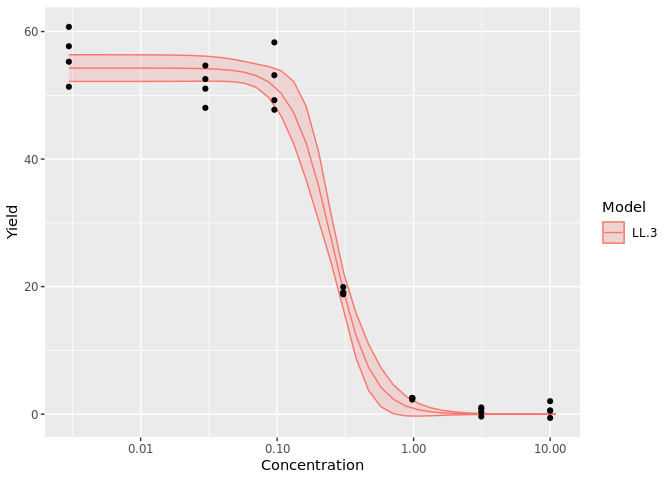
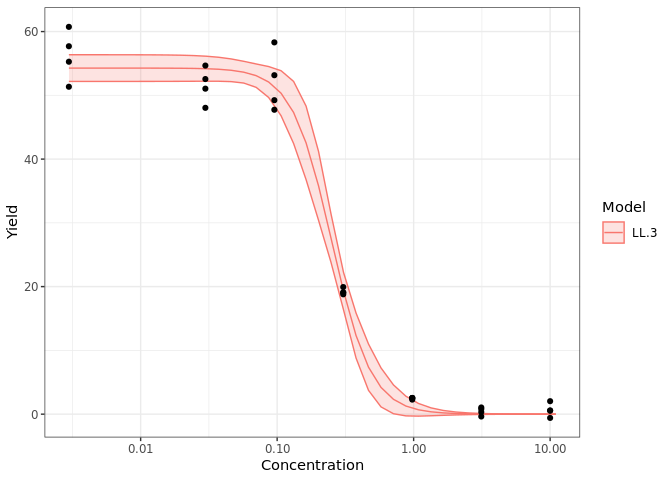
opensource prep: reknit readme

Changed region(s): [[0.0625, 0.9062, 0.8438, 0.9375], [0.0625, 0.0, 0.0938, 0.0312]]

diff --git a/README.md b/README.md
@@ -6,9 +6,26 @@
 <!-- badges: start -->
 <!-- badges: end -->
 
-The goal of drcHelper is to assit the routine dose-response analysis
-with a collection of helper functions or standalong functions that are
-generic and might be useful outside our own organization.
+The goal of drcHelper is to assist with routine dose-response analysis
+by providing a collection of helper functions and standalone functions
+that are generic and may be useful beyond our organization.
+
+As part of the GLP stat pilot project, this package serves as a
+cornerstone for the second use case, EFX Statistics. It will streamline
+GLP statistical analyses for various dose-response studies and test
+assays within our registration data package. This ensures that the
+analyses remain current, state-of-the-art, and flexible enough to adapt
+to new regulatory requirements while complying with GLP standards.
+
+The package also includes test cases and examples to help the regulatory
+statistical community understand the reasons behind different outcomes.
+For instance, point estimations and p-values may vary depending on the
+parties involved, the functions used, or the packages selected. It aims
+to promote a harmonized understanding of methodologies and provide a
+foundation for standardized practices in the regulatory statistics field
+for plant protection product registration. Additionally, it is hoped
+that this project will contribute to the ongoing OECD 54 revision
+process.
 
 ## Installation
 
@@ -30,6 +47,7 @@ library(drc)
 library(dplyr)
 library(purrr)
 library(ggplot2)
+theme_set(theme_bw())
 sum1 <- oecd201 %>% group_by(Time,Treatment) %>% summarise(Yield_mean=mean(Yield),Yield_sd=sd(Yield),GrowthRate_mean=mean(GrowthRate),GrowthRate_sd=sd(GrowthRate))
 sum0 <- sum1%>%filter(Treatment=="Control")%>%rename(Yield0=Yield_mean,GrowthRate0=GrowthRate_mean)%>%dplyr::select(c(Time,Yield0,GrowthRate0))
 # sum0
@@ -117,33 +135,33 @@ knitr::kable(edResTab,caption = "14 day TSL Yield",digits = 3)
 | LL.3  |    0.120 |      0.020 | 0.078 | 0.162 | 0.700 | Fair        | EC 10 |
 | LL.3  |    0.158 |      0.019 | 0.118 | 0.197 | 0.504 | Fair        | EC 20 |
 | LL.3  |    0.251 |      0.013 | 0.225 | 0.277 | 0.206 | Good        | EC 50 |
-| LL2.3 |       NA |         NA |    NA |    NA |    NA | not defined | EC 10 |
-| LL2.3 |       NA |         NA |    NA |    NA |    NA | not defined | EC 20 |
-| LL2.3 |       NA |         NA |    NA |    NA |    NA | not defined | EC 50 |
-| W2.3  |       NA |         NA |    NA |    NA |    NA | not defined | EC 10 |
-| W2.3  |       NA |         NA |    NA |    NA |    NA | not defined | EC 20 |
-| W2.3  |       NA |         NA |    NA |    NA |    NA | not defined | EC 50 |
-| W1.3  |       NA |         NA |    NA |    NA |    NA | not defined | EC 10 |
-| W1.3  |       NA |         NA |    NA |    NA |    NA | not defined | EC 20 |
-| W1.3  |       NA |         NA |    NA |    NA |    NA | not defined | EC 50 |
-| EXD.3 |       NA |         NA |    NA |    NA |    NA | not defined | EC 10 |
-| EXD.3 |       NA |         NA |    NA |    NA |    NA | not defined | EC 20 |
-| EXD.3 |       NA |         NA |    NA |    NA |    NA | not defined | EC 50 |
-| EXD.2 |       NA |         NA |    NA |    NA |    NA | not defined | EC 10 |
-| EXD.2 |       NA |         NA |    NA |    NA |    NA | not defined | EC 20 |
-| EXD.2 |       NA |         NA |    NA |    NA |    NA | not defined | EC 50 |
-| LN.3  |       NA |         NA |    NA |    NA |    NA | not defined | EC 10 |
-| LN.3  |       NA |         NA |    NA |    NA |    NA | not defined | EC 20 |
-| LN.3  |       NA |         NA |    NA |    NA |    NA | not defined | EC 50 |
-| W2.4  |       NA |         NA |    NA |    NA |    NA | not defined | EC 10 |
-| W2.4  |       NA |         NA |    NA |    NA |    NA | not defined | EC 20 |
-| W2.4  |       NA |         NA |    NA |    NA |    NA | not defined | EC 50 |
-| LL.4  |       NA |         NA |    NA |    NA |    NA | not defined | EC 10 |
-| LL.4  |       NA |         NA |    NA |    NA |    NA | not defined | EC 20 |
-| LL.4  |       NA |         NA |    NA |    NA |    NA | not defined | EC 50 |
-| LL2.4 |       NA |         NA |    NA |    NA |    NA | not defined | EC 10 |
-| LL2.4 |       NA |         NA |    NA |    NA |    NA | not defined | EC 20 |
-| LL2.4 |       NA |         NA |    NA |    NA |    NA | not defined | EC 50 |
+| LL2.3 |       NA |         NA |    NA |    NA |    NA | Not defined | EC 10 |
+| LL2.3 |       NA |         NA |    NA |    NA |    NA | Not defined | EC 20 |
+| LL2.3 |       NA |         NA |    NA |    NA |    NA | Not defined | EC 50 |
+| W2.3  |       NA |         NA |    NA |    NA |    NA | Not defined | EC 10 |
+| W2.3  |       NA |         NA |    NA |    NA |    NA | Not defined | EC 20 |
+| W2.3  |       NA |         NA |    NA |    NA |    NA | Not defined | EC 50 |
+| W1.3  |       NA |         NA |    NA |    NA |    NA | Not defined | EC 10 |
+| W1.3  |       NA |         NA |    NA |    NA |    NA | Not defined | EC 20 |
+| W1.3  |       NA |         NA |    NA |    NA |    NA | Not defined | EC 50 |
+| EXD.3 |       NA |         NA |    NA |    NA |    NA | Not defined | EC 10 |
+| EXD.3 |       NA |         NA |    NA |    NA |    NA | Not defined | EC 20 |
+| EXD.3 |       NA |         NA |    NA |    NA |    NA | Not defined | EC 50 |
+| EXD.2 |       NA |         NA |    NA |    NA |    NA | Not defined | EC 10 |
+| EXD.2 |       NA |         NA |    NA |    NA |    NA | Not defined | EC 20 |
+| EXD.2 |       NA |         NA |    NA |    NA |    NA | Not defined | EC 50 |
+| LN.3  |       NA |         NA |    NA |    NA |    NA | Not defined | EC 10 |
+| LN.3  |       NA |         NA |    NA |    NA |    NA | Not defined | EC 20 |
+| LN.3  |       NA |         NA |    NA |    NA |    NA | Not defined | EC 50 |
+| W2.4  |       NA |         NA |    NA |    NA |    NA | Not defined | EC 10 |
+| W2.4  |       NA |         NA |    NA |    NA |    NA | Not defined | EC 20 |
+| W2.4  |       NA |         NA |    NA |    NA |    NA | Not defined | EC 50 |
+| LL.4  |       NA |         NA |    NA |    NA |    NA | Not defined | EC 10 |
+| LL.4  |       NA |         NA |    NA |    NA |    NA | Not defined | EC 20 |
+| LL.4  |       NA |         NA |    NA |    NA |    NA | Not defined | EC 50 |
+| LL2.4 |       NA |         NA |    NA |    NA |    NA | Not defined | EC 10 |
+| LL2.4 |       NA |         NA |    NA |    NA |    NA | Not defined | EC 20 |
+| LL2.4 |       NA |         NA |    NA |    NA |    NA | Not defined | EC 50 |
 
 14 day TSL Yield
 
@@ -194,7 +212,7 @@ addECxCI(p=p,object=modList[[1]],EDres=NULL,trend="Decrease",endpoint="EC", resp
 <img src="man/figures/README-unnamed-chunk-9-2.png" width="100%" />
 
 ``` r
-ggsave("TSL_14d_Yield.png")
+## ggsave("TSL_14d_Yield.png")
 ```
 
 ``` r
@@ -239,11 +257,28 @@ pander::pander(coef(modsum))
 
 ## ToDo
 
-- [ ] Develop all NOEC functions
-- [ ] Prepare the templates.
-- [ ] Update the documentation
+- [ ] Develop all test cases for NOEC functions
+- [ ] Prepare the templates and standard outputs for all .
+- [ ] Update the documentation.
 
 ## Contribution Notes
 
 - Please create a pull request to contribute to the development of
-  packages.
+  packages. Note that source branch is the branch you are currently
+  working on when you run the `gh pr create` command.
+
+<!-- -->
+
+    gh pr create --title "Title of the pull request" --body "Description of the pull request"
+    gh pr create --title "Title of the pull request" --body "Description of the pull request" --base develop
+
+To use the pkgdown github workflow, some of the vignettes need to be
+pre-knit before pushing to the remote github repository.
+
+``` r
+knitr::knit("vignettes/drcHelper.Rmd.orig", output = "vignettes/drcHelper.Rmd")
+knitr::knit("vignettes/articles/Example_RSCABS.Rmd.orig", output = "vignettes/articles/Example_RSCABS.Rmd")
+knitr::knit("vignettes/articles/Examples using NLS.Rmd.orig", output = "vignettes/articles/Examples using NLS.Rmd")
+knitr::knit("vignettes/articles/Examples_drc.Rmd.orig", output = "vignettes/articles/Examples_drc.Rmd")
+knitr::knit("vignettes/articles/Examples_oecd201.Rmd.orig", output = "vignettes/articles/Examples_oecd201.Rmd")
+```
